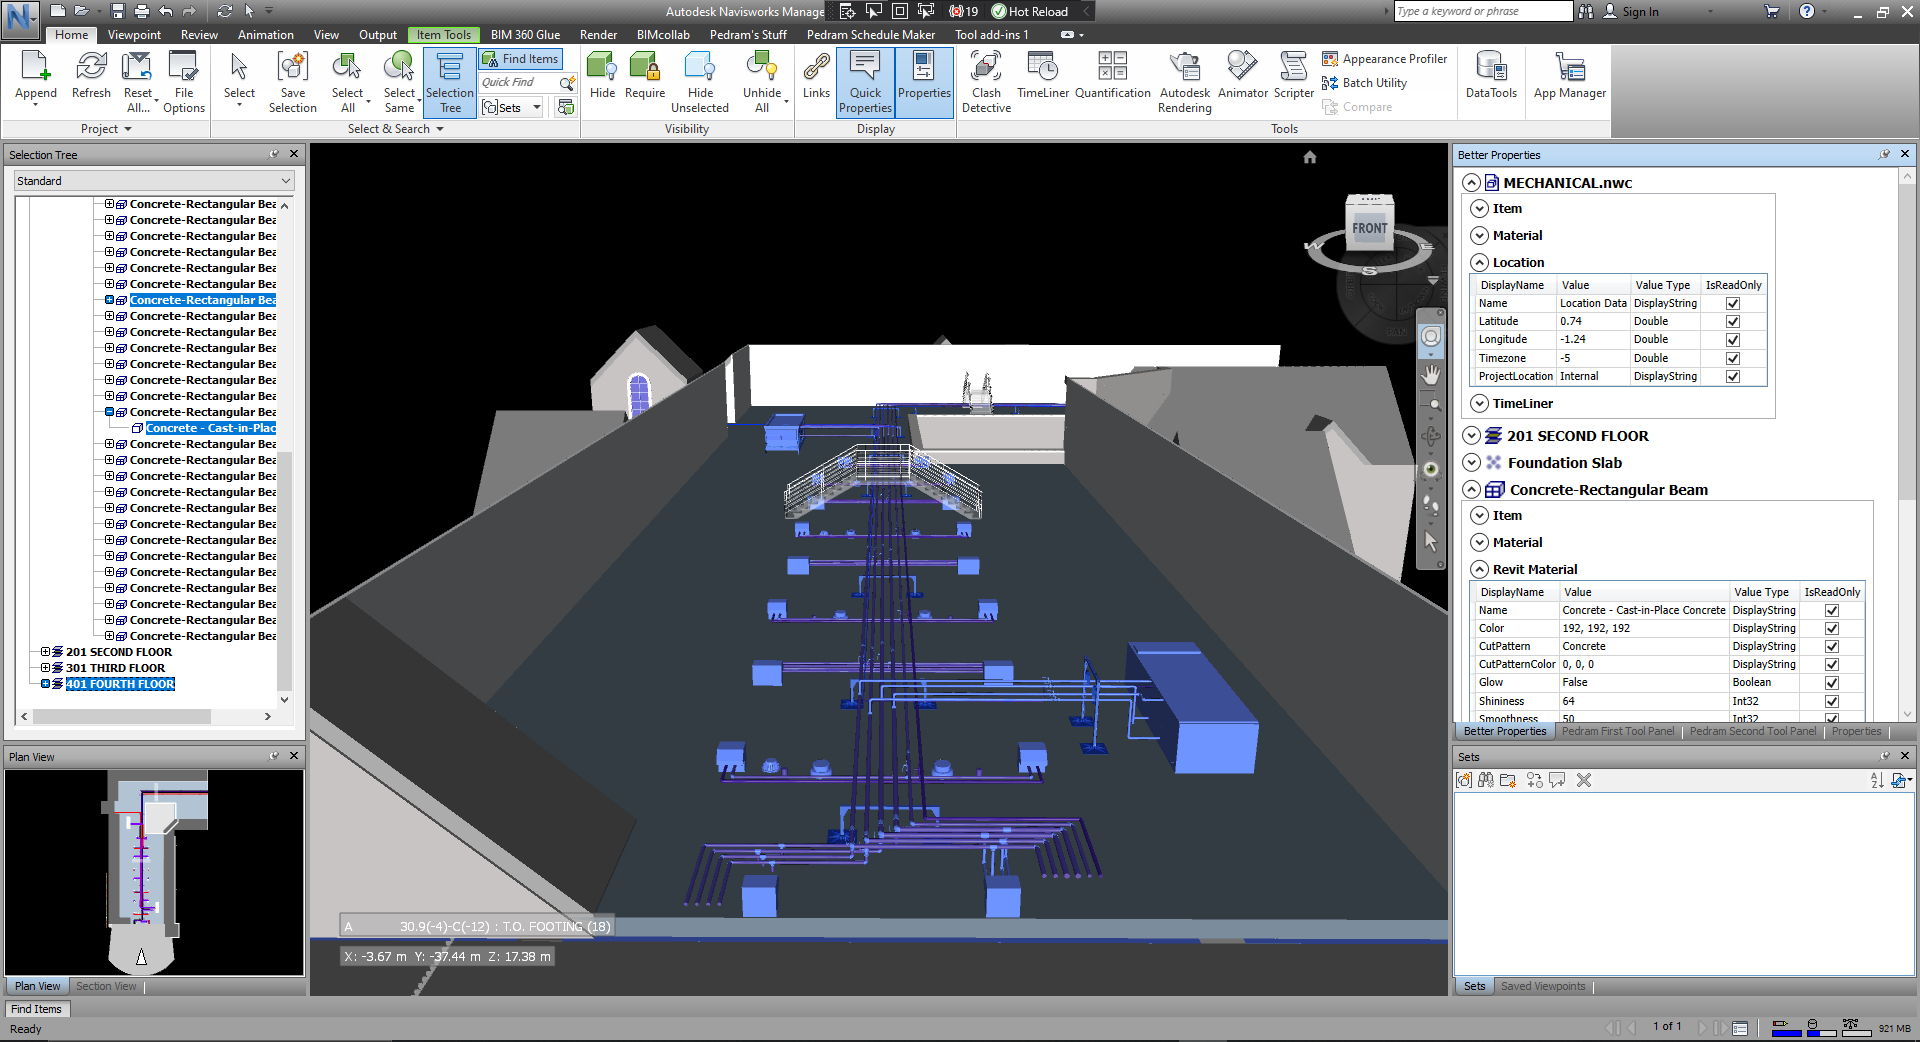
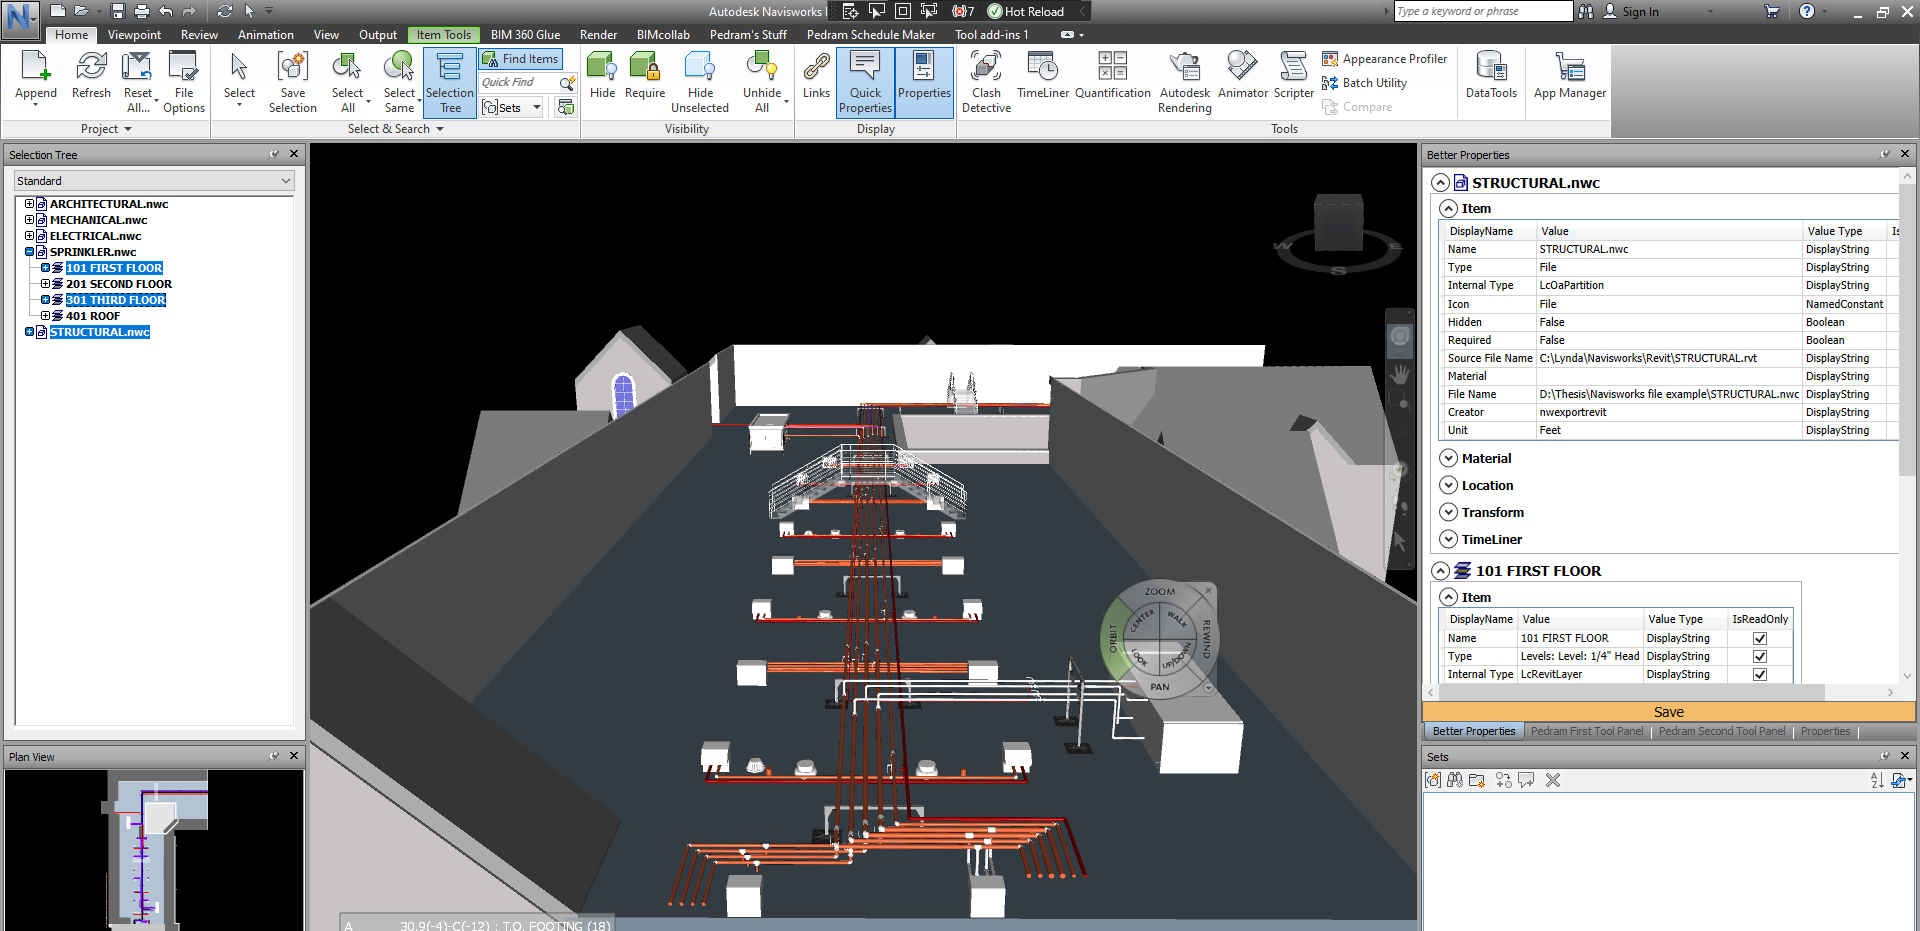
Added Save as json Option. Selected elements's properties can now be saved.

diff --git a/BetterPropertiesDockpane/MVVM/Views/BetterPropertiesView.xaml b/BetterPropertiesDockpane/MVVM/Views/BetterPropertiesView.xaml
@@ -25,7 +25,7 @@
         </Style>
 
         <!--#region Converters -->
-        
+
         <converters:PropertyValueToCorrectedValueConverter
             x:Key="Value2CorrectedValueConverter" />
 
@@ -34,87 +34,98 @@
 
         <!--#endregion-->
 
-        
-        
-
     </UserControl.Resources>
 
-    <ScrollViewer
-        HorizontalScrollBarVisibility="Auto"
-        VerticalScrollBarVisibility="Auto">
-
+    <DockPanel>
         <!--list of selected model items-->
-        <ListView
-            ItemsSource="{Binding Path=SelectedModelItems}"
-            SelectionMode="Extended">
-            <ListView.ItemTemplate>
-                <DataTemplate>
-                    <Expander>
-                        <Expander.Header>
+        <Button
+            DockPanel.Dock="Bottom"
+            Content="Save"
+            FontFamily="Tahoma"
+            Command="{Binding Path=SaveAsJsonFileCommand}"
+            FontSize="14"
+            FontWeight="Normal"
+            FontStyle="Normal"
+            Background="#FFF3BB6A" />
+        <ScrollViewer
+            HorizontalScrollBarVisibility="Auto"
+            VerticalScrollBarVisibility="Auto">
+            <ListView
+                ItemsSource="{Binding Path=SelectedModelItems}"
+                SelectionMode="Extended">
+                <ListView.ItemTemplate>
+                    <DataTemplate>
+                        <Expander>
+                            <Expander.Header>
 
-                            <StackPanel
-                                Orientation="Horizontal"
-                                HorizontalAlignment="Center">
+                                <StackPanel
+                                    Orientation="Horizontal"
+                                    HorizontalAlignment="Center">
 
-                                <Image Height="{Binding RelativeSource={RelativeSource AncestorType={x:Type StackPanel}}, Path=ActualHeight}"
-                                    Margin="0,0,5,0"
-                                    Source="{Binding Converter={StaticResource ModelItem2IconImage}}">
-                                </Image>
+                                    <Image
+                                        Height="{Binding RelativeSource={RelativeSource AncestorType={x:Type StackPanel}}, Path=ActualHeight}"
+                                        Margin="0,0,5,0"
+                                        Source="{Binding Converter={StaticResource ModelItem2IconImage}}">
+                                    </Image>
 
-                                <TextBlock HorizontalAlignment="Center"
-                                    Text="{Binding Path=DisplayName}"
-                                    FontSize="14"
-                                    FontWeight="Bold" />
+                                    <TextBlock
+                                        HorizontalAlignment="Center"
+                                        Text="{Binding Path=DisplayName}"
+                                        FontSize="14"
+                                        FontWeight="Bold" />
 
-                            </StackPanel>
+                                </StackPanel>
 
-                        </Expander.Header>
-                        <!--Categories-->
-                        <ListView
-                            ItemsSource="{Binding Path=PropertyCategories}"
-                            SelectionMode="Extended">
-                            <ListView.ItemTemplate>
-                                <DataTemplate>
-                                    <Expander>
-                                        <Expander.Header>
-                                            <TextBlock
-                                                Text="{Binding Path=DisplayName}"
-                                                FontSize="12"
-                                                FontWeight="Bold" />
-                                        </Expander.Header>
+                            </Expander.Header>
+                            <!--Categories-->
+                            <ListView
+                                ItemsSource="{Binding Path=PropertyCategories}"
+                                SelectionMode="Extended">
+                                <ListView.ItemTemplate>
+                                    <DataTemplate>
+                                        <Expander>
+                                            <Expander.Header>
+                                                <TextBlock
+                                                    Text="{Binding Path=DisplayName}"
+                                                    FontSize="12"
+                                                    FontWeight="Bold" />
+                                            </Expander.Header>
 
-                                        <!--properties-->
-                                        <DataGrid SelectionMode="Extended" SelectionUnit="Cell"
-                                            ItemsSource="{Binding Path=Properties, Mode=OneWay}"
-                                            AutoGenerateColumns="False">
-                                            <DataGrid.Columns>
-                                                <DataGridTextColumn
-                                                    Header="DisplayName"
-                                                    Binding="{Binding Path=DisplayName, Mode=OneWay}" />
-                                                <DataGridTextColumn
-                                                    Header="Value"
-                                                    Binding="{Binding Path=Value, Mode=OneWay, Converter={StaticResource ResourceKey=Value2CorrectedValueConverter}}" />
-                                                <DataGridTextColumn
-                                                    Header="Value Type"
-                                                    Binding="{Binding Path=Value.DataType, Mode=OneWay}" />
-                                                <DataGridTextColumn
-                                                    Header="Name"
-                                                    Binding="{Binding Path=Name, Mode=OneWay}"
-                                                    Visibility="Hidden" />
-                                                <DataGridCheckBoxColumn
-                                                    Header="IsReadOnly"
-                                                    Binding="{Binding Path=IsReadOnly, Mode=OneWay}" />
-                                            </DataGrid.Columns>
-                                        </DataGrid>
-                                    </Expander>
-                                </DataTemplate>
-                            </ListView.ItemTemplate>
-                        </ListView>
-                    </Expander>
-                </DataTemplate>
-            </ListView.ItemTemplate>
-        </ListView>
-
-    </ScrollViewer>
+                                            <!--properties-->
+                                            <DataGrid
+                                                SelectionMode="Extended"
+                                                SelectionUnit="Cell"
+                                                ItemsSource="{Binding Path=Properties, Mode=OneWay}"
+                                                AutoGenerateColumns="False">
+                                                <DataGrid.Columns>
+                                                    <DataGridTextColumn
+                                                        Header="DisplayName"
+                                                        Binding="{Binding Path=DisplayName, Mode=OneWay}" />
+                                                    <DataGridTextColumn
+                                                        Header="Value"
+                                                        Binding="{Binding Path=Value, Mode=OneWay, Converter={StaticResource ResourceKey=Value2CorrectedValueConverter}}" />
+                                                    <DataGridTextColumn
+                                                        Header="Value Type"
+                                                        Binding="{Binding Path=Value.DataType, Mode=OneWay}" />
+                                                    <DataGridTextColumn
+                                                        Header="Name"
+                                                        Binding="{Binding Path=Name, Mode=OneWay}"
+                                                        Visibility="Hidden" />
+                                                    <DataGridCheckBoxColumn
+                                                        Header="IsReadOnly"
+                                                        Binding="{Binding Path=IsReadOnly, Mode=OneWay}" />
+                                                </DataGrid.Columns>
+                                            </DataGrid>
+                                        </Expander>
+                                    </DataTemplate>
+                                </ListView.ItemTemplate>
+                            </ListView>
+                        </Expander>
+                    </DataTemplate>
+                </ListView.ItemTemplate>
+            </ListView>
+        </ScrollViewer>
+    </DockPanel>
+    
 
 </UserControl>

diff --git a/BetterPropertiesDockpane/MVVM/ViewModels/BetterPropertiesViewModel.cs b/BetterPropertiesDockpane/MVVM/ViewModels/BetterPropertiesViewModel.cs
@@ -1,6 +1,11 @@
 using Autodesk.Navisworks.Api;
 using BetterPropertiesDockpane.Helper;
 using System;
+using Forms = System.Windows.Forms;
+using System.Windows.Input;
+using Microsoft.Win32;
+using System.Text.RegularExpressions;
+using Windows = System.Windows;
 
 namespace BetterPropertiesDockpane.MVVM.ViewModels
 {
@@ -17,6 +22,9 @@ namespace BetterPropertiesDockpane.MVVM.ViewModels
         }
 
 
+        public ICommand SaveAsJsonFileCommand { get; set; }
+
+
 
 
 
@@ -24,8 +32,70 @@ namespace BetterPropertiesDockpane.MVVM.ViewModels
         {
             Application.ActiveDocument.CurrentSelection.Changed += this.CurrentSelection_Changed;
             Application.ActiveDocumentChanged += this.CurrentSelection_Changed;
+
+            SaveAsJsonFileCommand = new RelayCommand(SaveAsJsonFile, CanBeSavedAsJsonFile);
+
         }
 
+        public void SaveAsJsonFile(object _)
+        {
+
+            Forms.SaveFileDialog saveFileDialog = new Forms.SaveFileDialog()
+            {
+                Filter = "JavaScript Object Notation|* json",
+                Title = "Save Selected ModelItems Properties"
+            };
+
+            if (saveFileDialog.ShowDialog() == Forms.DialogResult.OK)
+            {
+
+                var output = NavisworksDevHelper.ModelItem.CategoriesPropertiesHelper.SerializeModelItemsProperties(SelectedModelItems);
+
+                string pattern = @"^.*\.(json)$";
+
+                try
+                {
+                    if (!Regex.IsMatch(saveFileDialog.FileName, pattern))
+                    {
+                        System.IO.File.WriteAllText($"{saveFileDialog.FileName}.json", output.ToString());
+                    }
+                    else
+                    {
+                        System.IO.File.WriteAllText(saveFileDialog.FileName, output.ToString());
+                    }
+                }
+                catch (Exception e)
+                {
+
+                    var result = Windows.MessageBox.Show(e.Message, e.StackTrace, Windows.MessageBoxButton.OKCancel);
+                    if (result == Windows.MessageBoxResult.OK)
+                    {
+                        SaveAsJsonFile(_);
+                    }
+                }
+                
+            }
+        }
+        
+        private bool CanBeSavedAsJsonFile(object _)
+        {
+
+            if (SelectedModelItems is null)
+            {
+                return false;
+            }
+            else if (SelectedModelItems.Count != 0)
+            {
+                return true;
+            }
+            else
+            {
+                return false;
+            }
+            
+        }
+
+        
         private void CurrentSelection_Changed(object sender, EventArgs e)
         {
             // if a real document still not loaded then do nothing
@@ -33,6 +103,7 @@ namespace BetterPropertiesDockpane.MVVM.ViewModels
             {
                 SelectedModelItems = ((Document)sender).CurrentSelection.SelectedItems;
             }
-        }
+        } 
+
     }
 }

diff --git a/README.md b/README.md
@@ -1,6 +1,4 @@
 # Better Properties Window for Navisworks
 **Goal:** having a window better than the built-in Properties DockPane
 
- - Under developement
-
 ![Sample](https://github.com/PedramElmi/BetterNavisworksProperties/raw/main/Resources/Screenshot.png)
